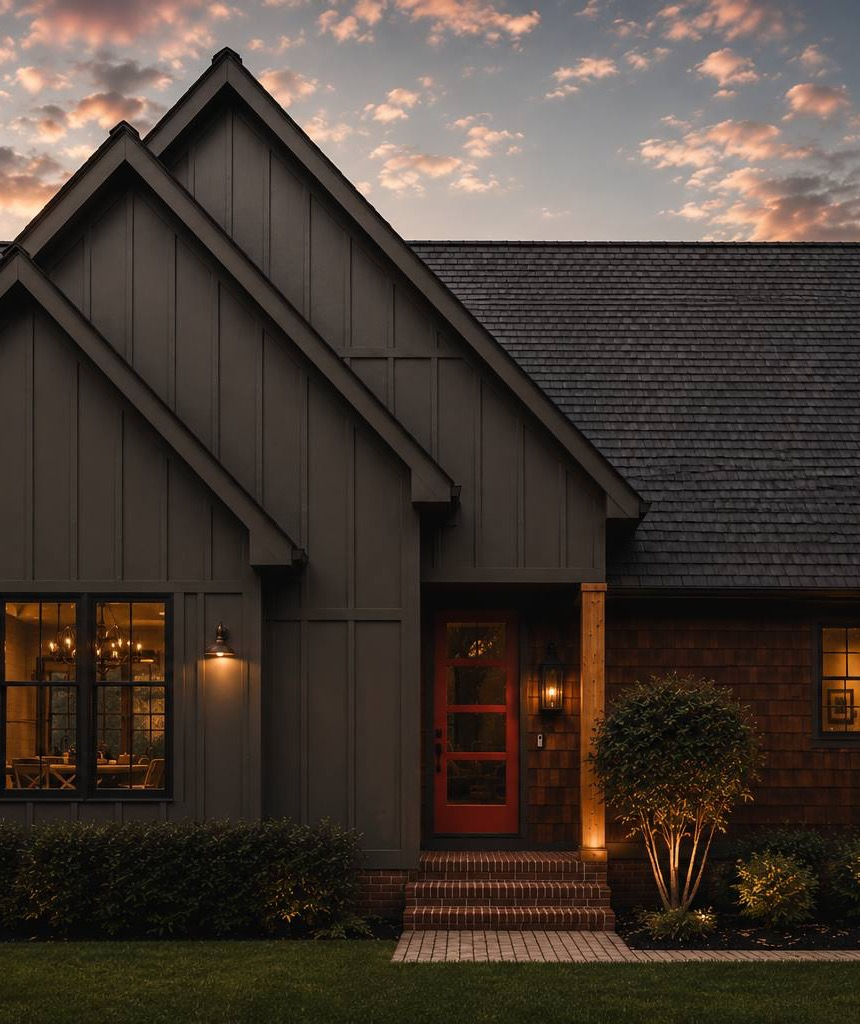
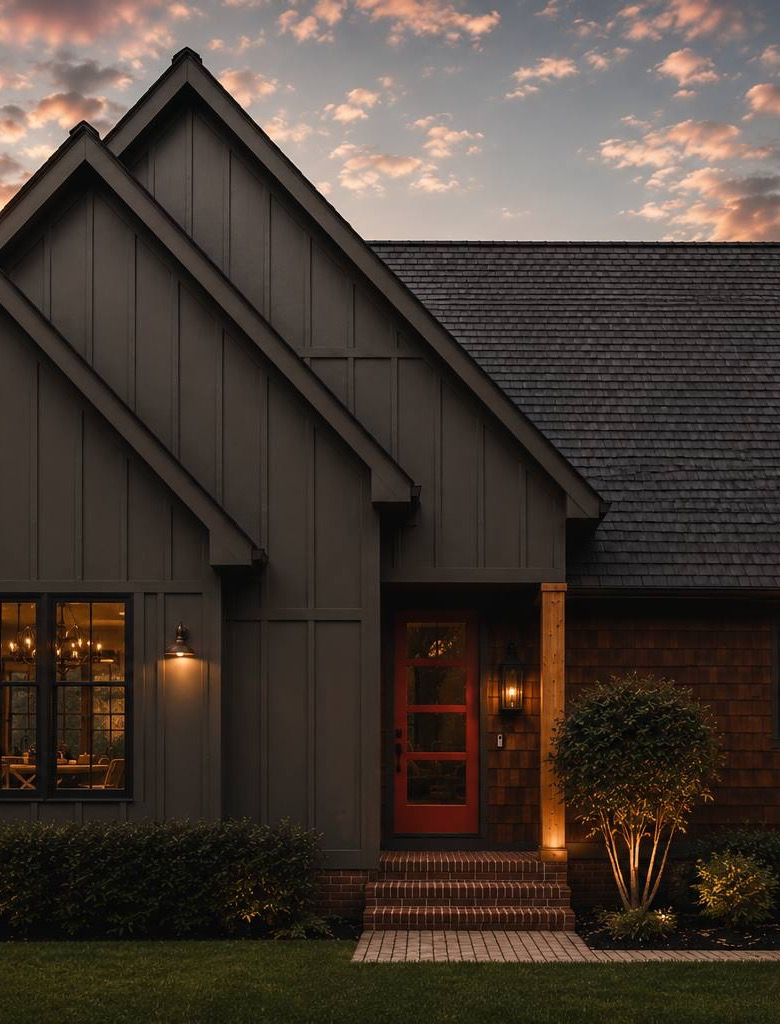
Shorten mobile hero so the house isn't scaled up / zoomed
The portrait crop alone wasn't enough: a 100vh hero on a phone still
scaled the image up to fill a tall viewport, cropping ~39% of the house
width. Made the mobile hero height content-driven (height:auto with
padding) instead of 100vh, so the container aspect is close to the image
and the full house facade shows edge-to-edge. Also re-cropped the mobile
image slightly taller (780x1024). Desktop unchanged.

diff --git a/css/style.css b/css/style.css
@@ -388,9 +388,16 @@ section[id] { scroll-margin-top: 90px; }
   transition: transform 8s ease;
 }
 /* On phones/portrait tablets the wide landscape crops to a zoomed-in
-   center slice, so swap in a portrait crop of the same photo. */
+   center slice. Swap in a portrait crop of the same photo AND shorten the
+   hero so the image isn't scaled up to fill a full-height viewport (which
+   is what made it read as "zoomed"). */
 @media (max-width: 768px) {
   .hero-bg { background-image: url('../assets/images/stock-house-dusk-mobile.jpg'); }
+  #hero {
+    height: auto;
+    min-height: 0;
+    padding-block: 116px 60px;
+  }
 }
 #hero.loaded .hero-bg { transform: scale(1); }
 .hero-overlay {